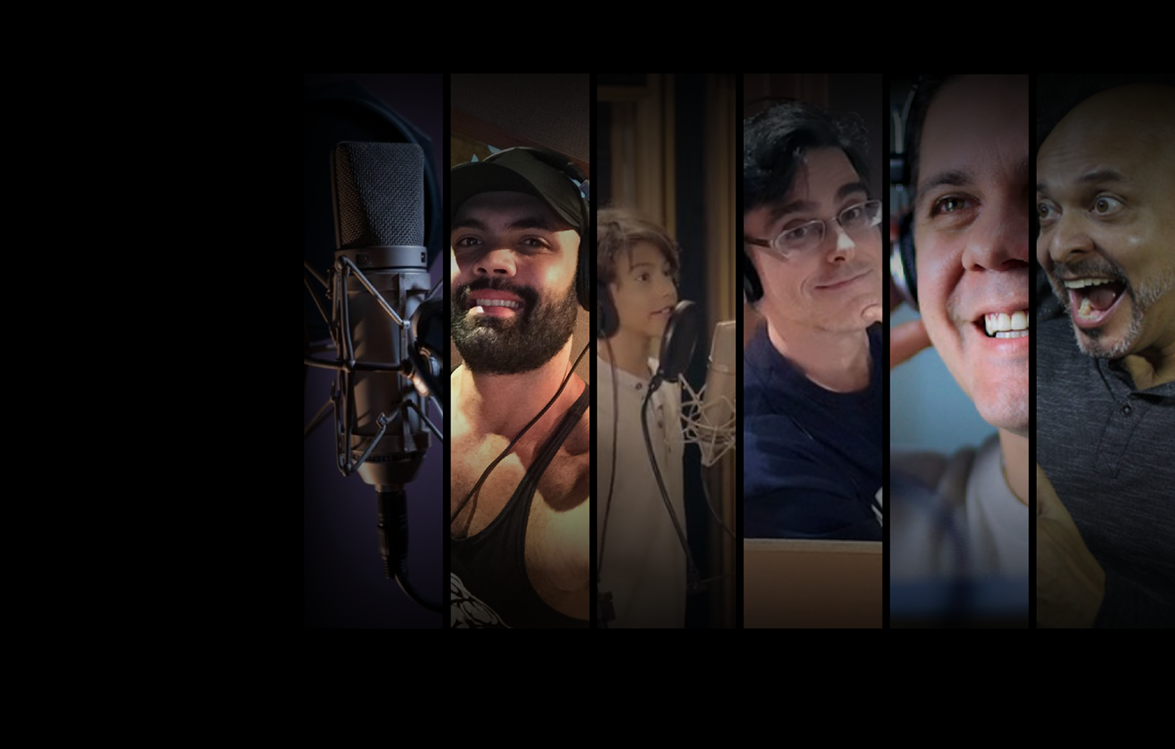
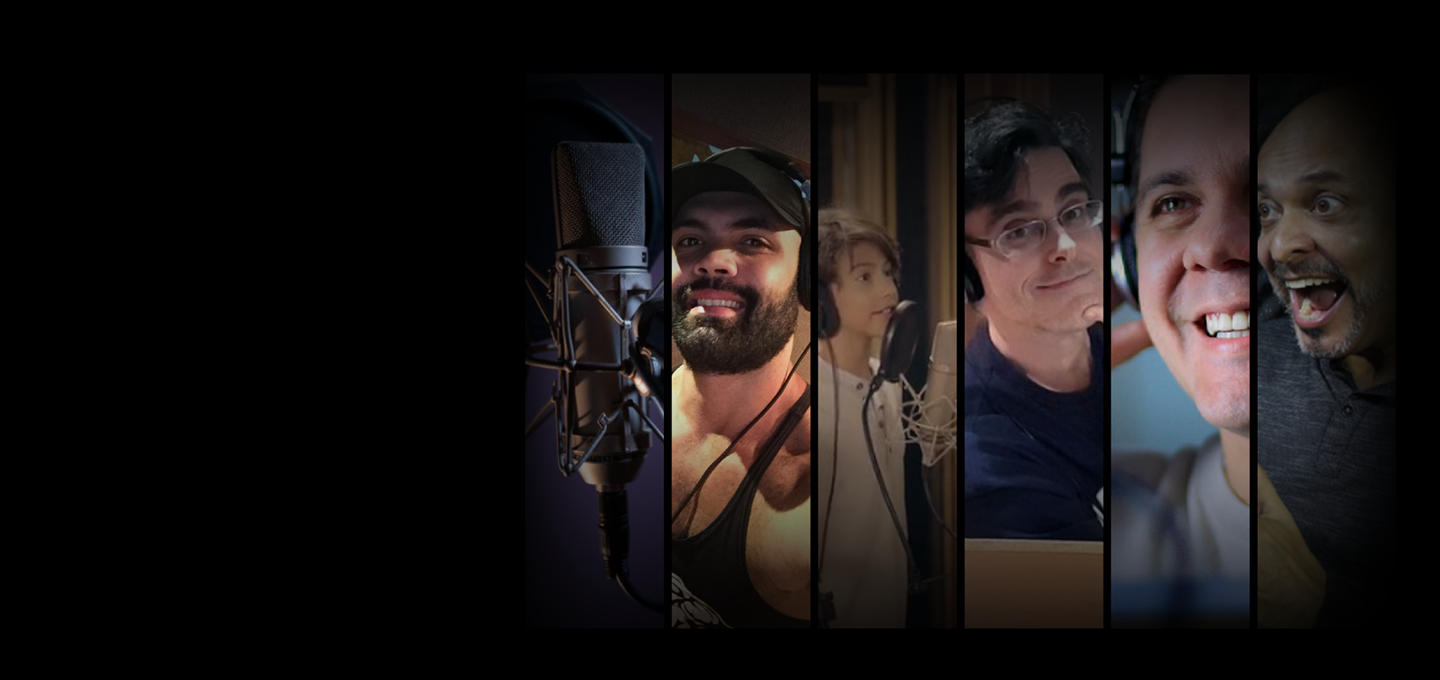
Add files via upload

diff --git a/style.css b/style.css
@@ -17,7 +17,6 @@ body {
     background-color: var(--cor-fundo);
     color: var(--branco-principal);
     font-family: "Inter", sans-serif;
-    font-weight: bold;
 }
 
 .azul{
@@ -26,4 +25,32 @@ body {
 
 .laranja{
     color: var(--cor-primaria);
+}
+
+.container {
+    display: grid;
+    height: 100vh;
+    grid-template-columns: 33% 33% 33%;
+}
+
+.principal {
+    background-image: url("imagens/Dubladores.png");
+    background-repeat: no-repeat;
+    background-size: contain;
+    text-align: center;
+}
+
+.container__botao {
+    display: block;
+    background-color: var(--botao-laranja);
+    color: var(--branco-principal);
+    border-radius: 8px;
+    padding: 1em;
+    text-decoration: none;
+}
+
+.botao_secundario {
+    background-color: transparent;
+    border: 2px solid var(--branco-principal);
+    margin: 16px 0px 10px;
 }

diff --git a/index.html b/index.html
@@ -11,8 +11,13 @@
 </head>
 <body>
     <section class="container principal">
+    <div>
         <h1>Com o curso de dublagem <span class="laranja">Jota</span><span class="azul">Dub</span>, você poderá finalmente realizar seu sonho de se tornar um dublador profissional</h1>
-        <img src="imagens/Logo.png" alt="Jota Dub">    
+        <img class="jota" src="imagens/Logo.png" alt="Jota Dub">    
+        <a class="container__botao" href="">Assine por 12x de R$ 70*</a>
+        <a class="container__botao botao_secundario" href="">Assinar somente o JotaDub</a>
+        <p>*O preço pode variar caso a assinatura seja feita em outros planos.</p>
+    </div>
     </section>
 
 </body>
